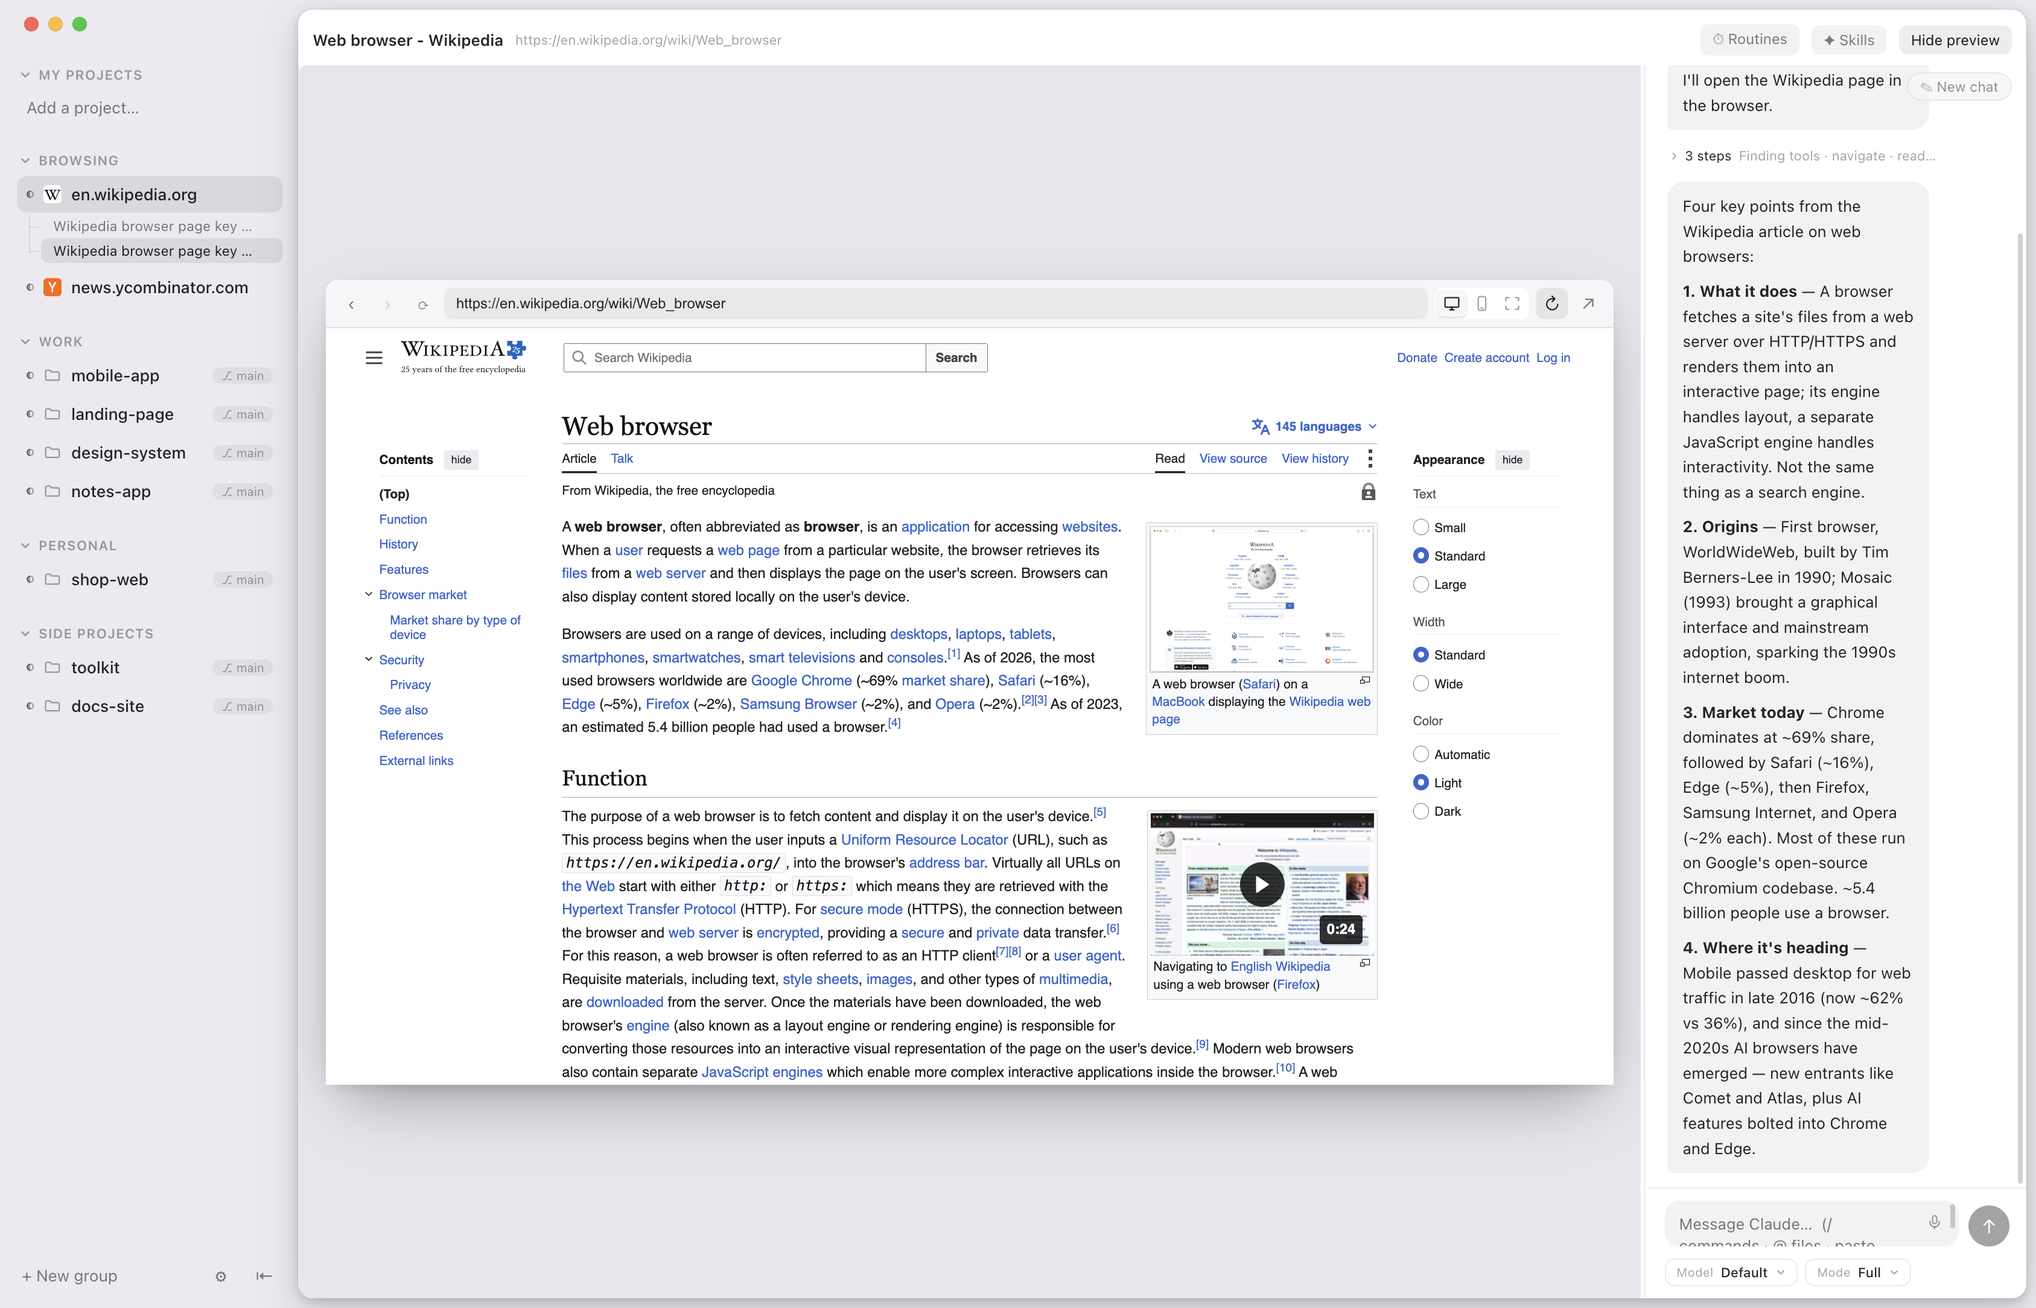
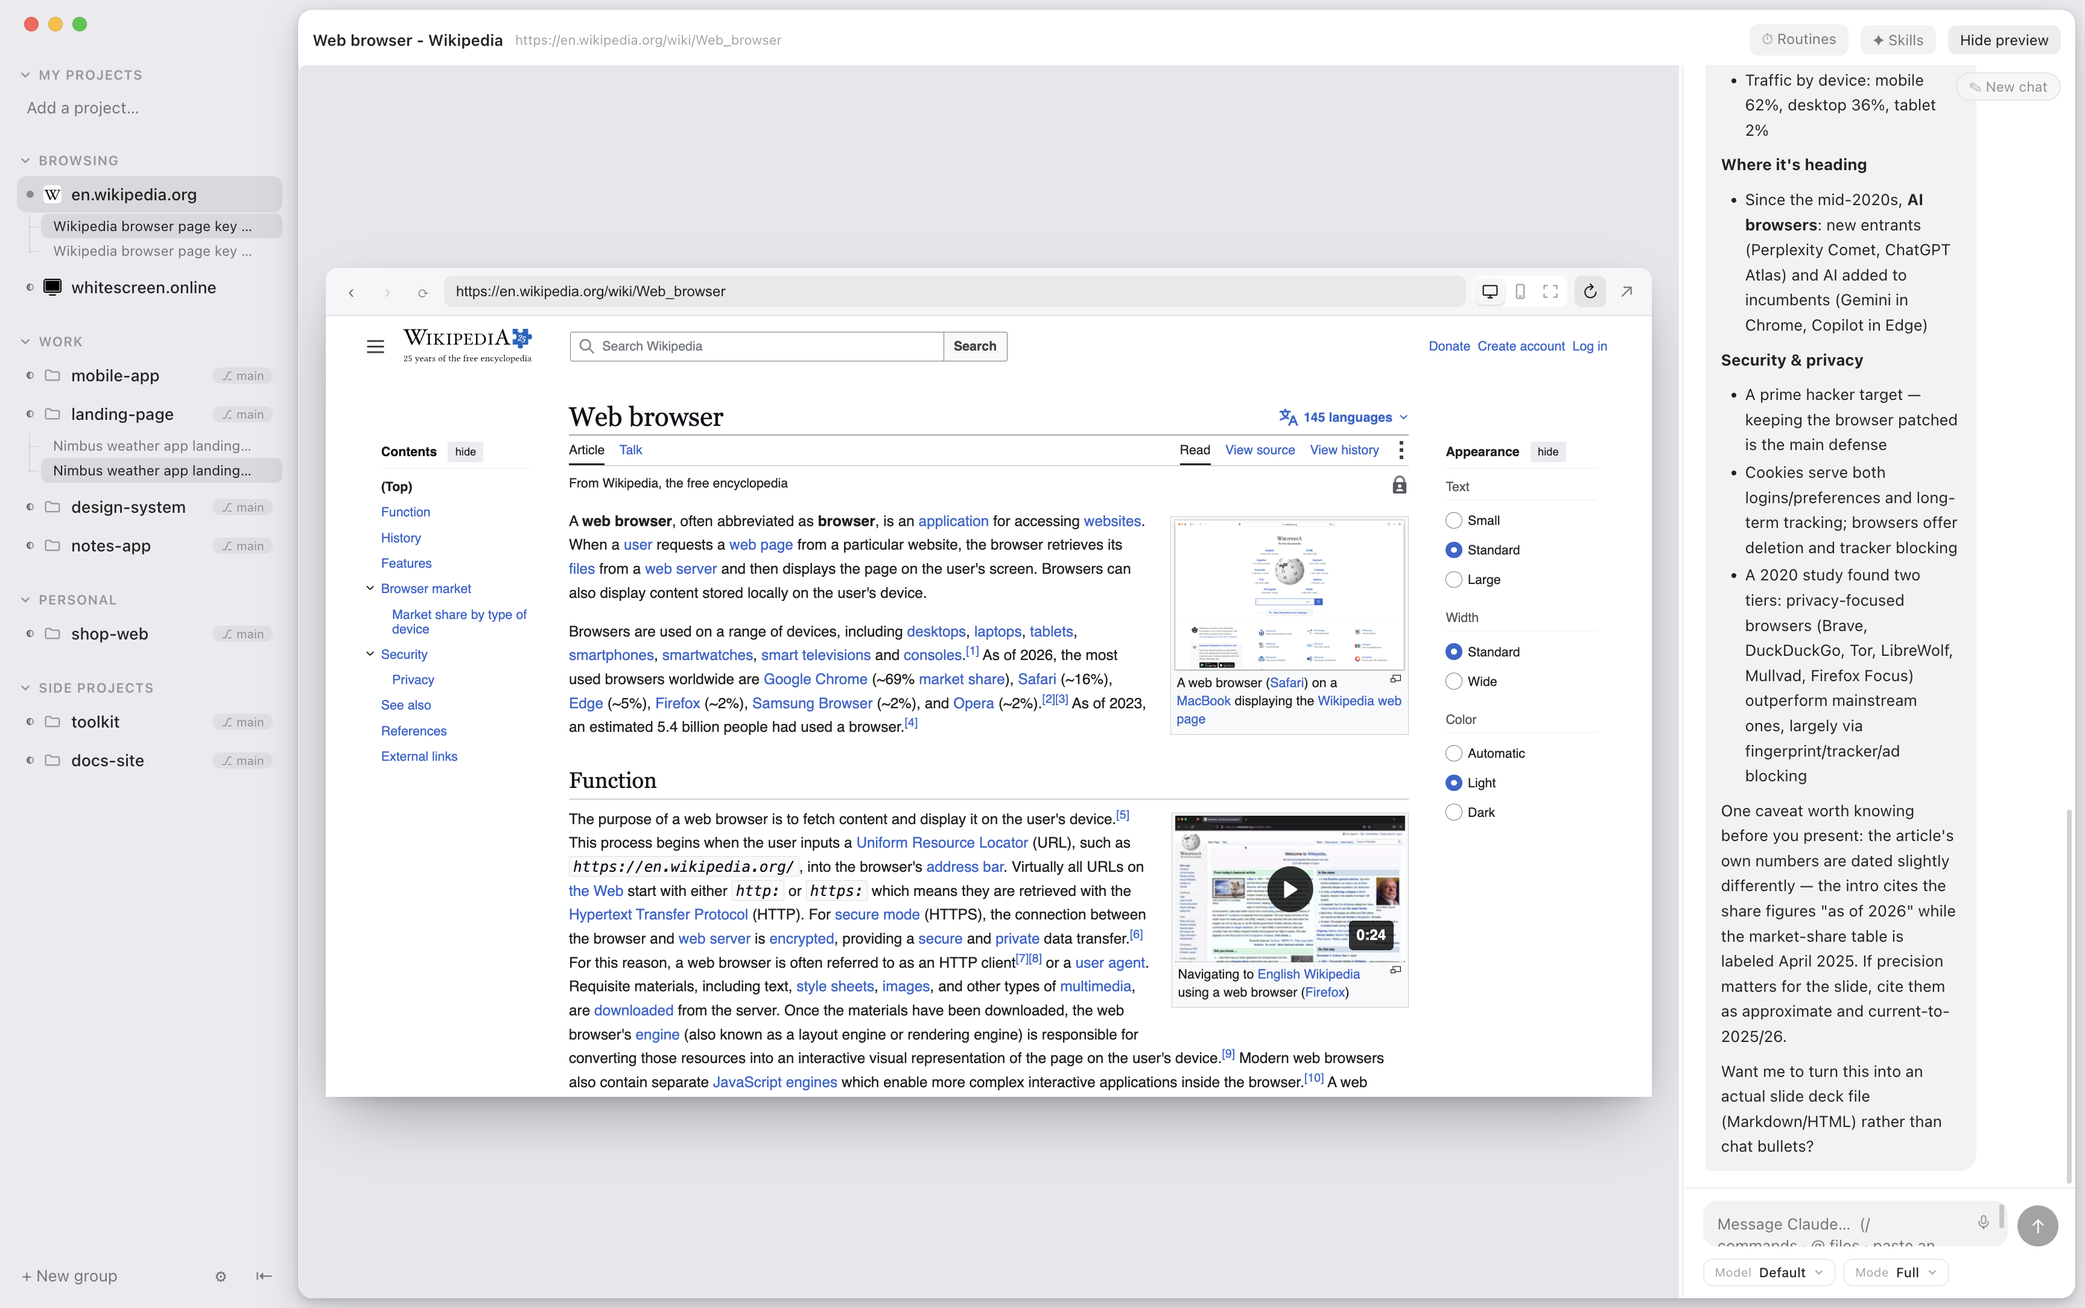
Instant Settings over a dimmed page; settle the pane corners; 1.0.6
Two bugs that looked like one, and a design question closed by the platform.

- Settings took 1-2s to appear, and the page behind it vanished instead of
  dimming. The delay was never the modal: opening Settings probes the Claude CLI
  version, and that ran `claude --version` through an interactive login shell
  with execSync — ON MAIN. Main sat blocked for the shell + the CLI's startup,
  every queued IPC stalled behind it, and since a WebContentsView composites
  above all HTML, the modal sat invisible under the browser pane until main came
  back. The probe is now async, cached for the session, and warmed at startup;
  loginShellExecAsync's doc comment warns that sync shell-outs on main stall
  every queued IPC, because this will bite again otherwise.

- The vanishing is structural — nothing dims a native view — so an overlay now
  freezes the pane instead: one IPC photographs the page and detaches the view
  in the same main-side handler (~25ms), and the still stands in and dims with
  everything else. Two prior versions of this shipped broken for reasons worth
  recording: capturing via toDataURL encoded a full-size PNG synchronously on
  main (the exact stall it was meant to avoid — now a half-size JPEG as bytes),
  and the renderer's CSP img-src didn't allow blob:, so the still rendered as a
  broken-image icon while looking perfectly healthy in the code.

- Pane corners: settled as a rounded-top sheet — omnibar corners round, page
[…]

diff --git a/app/src/renderer/src/components/BrowserPane.tsx b/app/src/renderer/src/components/BrowserPane.tsx
@@ -51,6 +51,14 @@ function FitIcon(): React.JSX.Element {
 // Height of the omnibar when it's docked onto the desktop floating card (so the
 // card reads as a self-contained browser window). Native view is pushed down by it.
 const CARD_OMNIBAR_H = 40
+// The native view's radius is uniform (no per-corner API), and NOTHING paints
+// over web contents — not HTML, and not sibling native Views (verified on screen
+// in both z-orders). A flush top therefore forces a square view, and a square
+// view fills the card to its bottom edge — any rounded lip under it reads as a
+// gap. So desktop mode is a rounded-top sheet: omnibar corners round, page
+// square, card bottom squared to match. Mobile keeps a real radius all round —
+// nothing is butted against a floating phone.
+const PANE_RADIUS = 10
 
 export function BrowserPane({
   paneId,
@@ -108,6 +116,15 @@ export function BrowserPane({
     autoFitRef.current = true // re-fit whenever a mode is (re)selected
     setViewport(v)
   }
+  // Where the native view currently sits inside the host, and a still of it held
+  // while an HTML overlay is up.
+  const [viewRect, setViewRect] = useState<{
+    left: number
+    top: number
+    width: number
+    height: number
+  } | null>(null)
+  const [frozen, setFrozen] = useState<string | null>(null)
   const [addressInput, setAddressInput] = useState('')
   const [suggestions, setSuggestions] = useState<Suggestion[]>([])
   const [suggestIndex, setSuggestIndex] = useState(-1)
@@ -143,6 +160,8 @@ export function BrowserPane({
     // draws over HTML, so without this the dropdown is covered and unclickable.
     // Clipping (vs hiding the whole pane) keeps the rest of the page visible.
     const emit = (b: { x: number; y: number; width: number; height: number }): void => {
+      // Host-relative copy for the freeze-frame still (see the overlay effect).
+      setViewRect({ left: b.x - x0, top: b.y - y0, width: b.width, height: b.height })
       if (suggestOpenRef.current && suggestRef.current) {
         const bottom = Math.round(suggestRef.current.getBoundingClientRect().bottom)
         if (bottom > b.y) {
@@ -158,6 +177,7 @@ export function BrowserPane({
       // layout fits the pane width (not a cramped 1:1 render). A manual zoom
       // (autoFit off) is respected instead.
       if (autoFitRef.current && W > 0) window.cove.browserSetZoom?.(paneId, W / 1280)
+      window.cove.browserSetRadius?.(paneId, 0)
       emit({ x: x0, y: y0, width: W, height: H })
       return
     }
@@ -178,6 +198,7 @@ export function BrowserPane({
       window.cove.browserSetZoom?.(paneId, scale)
       setSimFrame({ left, top, width: sw, height: sh })
       // The omnibar is docked onto the card's top strip, so the page starts below it.
+      window.cove.browserSetRadius?.(paneId, 0)
       emit({ x: x0 + left, y: y0 + top + CARD_OMNIBAR_H, width: sw, height: sh - CARD_OMNIBAR_H })
       return
     }
@@ -193,6 +214,8 @@ export function BrowserPane({
     const top = Math.round((H - dh) / 2)
     window.cove.browserSetZoom?.(paneId, scale)
     setSimFrame({ left, top, width: dw, height: dh })
+    // A phone is rounded on every corner, and has no omnibar butted against it.
+    window.cove.browserSetRadius?.(paneId, PANE_RADIUS)
     emit({ x: x0 + left, y: y0 + top, width: dw, height: dh })
   }, [paneId])
 
@@ -211,8 +234,44 @@ export function BrowserPane({
   // its top-clip is applied or removed.
   useEffect(() => {
     if (visible && !overlayOpen) syncBounds()
-    else window.cove.browserHide(paneId)
+    else if (!visible) window.cove.browserHide(paneId)
+    // The overlay case is handled below, so the page can be frozen before it goes.
   }, [visible, overlayOpen, suggestOpen, paneId, syncBounds])
+
+  // Overlay opening: one IPC — main photographs the page and detaches the view
+  // in the same handler, then the still stands in (~20 ms later). Detaching must
+  // never wait on a renderer round-trip: the native view composites above ALL
+  // HTML, so every frame it lingers is a frame the modal sits invisible under it.
+  useEffect(() => {
+    if (!visible) return
+    let cancelled = false
+    if (overlayOpen) {
+      window.cove
+        .browserFreeze?.(paneId)
+        .then((shot) => {
+          if (cancelled || !shot || !shot.length) return
+          setFrozen((prev) => {
+            if (prev) URL.revokeObjectURL(prev)
+            return URL.createObjectURL(new Blob([new Uint8Array(shot)], { type: 'image/jpeg' }))
+          })
+        })
+        .catch(() => window.cove.browserHide(paneId))
+    } else if (frozen) {
+      // Drop the still a frame after the live view is back, never before.
+      requestAnimationFrame(() => {
+        if (cancelled) return
+        setFrozen((prev) => {
+          if (prev) URL.revokeObjectURL(prev)
+          return null
+        })
+      })
+    }
+    return () => {
+      cancelled = true
+    }
+    // `frozen` is deliberately out of the deps: it's an output of this effect.
+    // eslint-disable-next-line react-hooks/exhaustive-deps
+  }, [overlayOpen, visible, paneId])
 
   // Re-apply on mode change. Leaving simulation restores 100% first (the sim left
   // a fit-to-pane zoom applied); then reposition/zoom for the newly selected mode.
@@ -519,7 +578,28 @@ export function BrowserPane({
               left: simFrame.left,
               top: simFrame.top,
               width: simFrame.width,
-              height: simFrame.height
+              height: simFrame.height,
+              // Desktop: the square page fills the card to its bottom edge, so the
+              // card squares off with it — rounded bottom corners would poke out
+              // from behind the page as two nicks.
+              borderRadius: viewport === 'desktop' ? '10px 10px 0 0' : undefined
+            }}
+          />
+        )}
+        {frozen && viewRect && (
+          // Stand-in for the native view while an overlay is up. Corners match
+          // what the compositor draws: square under the docked omnibar, rounded
+          // at the bottom; a simulated phone is rounded all round.
+          <img
+            className="browser-frozen"
+            src={frozen}
+            alt=""
+            style={{
+              left: viewRect.left,
+              top: viewRect.top,
+              width: viewRect.width,
+              height: viewRect.height,
+              borderRadius: viewport === 'mobile' ? '10px' : '0'
             }}
           />
         )}

diff --git a/app/src/main/browser.ts b/app/src/main/browser.ts
@@ -165,10 +165,13 @@ export function createBrowserPane(window: BrowserWindow, id: string, partition: 
     }
   })
   view.setBackgroundColor('#ffffff')
-  // Round the native view to match the content card (a native view isn't clipped
-  // by the card's CSS border-radius, so its square corner would otherwise bleed
-  // past the rounded corner). Also gives the Arc-style rounded-page look.
-  view.setBorderRadius?.(10)
+  // A native view isn't clipped by the card's CSS radius, so its corners are its
+  // own problem. Electron's radius is uniform — all four or none — which is why
+  // the renderer picks it per viewport mode: a phone stays rounded, while the
+  // desktop card sits flush under the docked omnibar (square) and gets its
+  // rounded bottom from the card showing beneath it. Default square; the
+  // renderer sets the real value on the first bounds sync.
+  view.setBorderRadius?.(0)
 
   const pane: BrowserPane = { id, view, window, visible: false }
   panes.set(id, pane)
@@ -314,6 +317,38 @@ export function registerBrowserIpc(): void {
     }
     pane.view.setBounds(bounds)
   })
+
+  /**
+   * Freeze the pane for an HTML overlay: photograph the page, then detach the
+   * native view — both here in main, one IPC. The view composites above ALL
+   * renderer HTML, so every frame it stays attached is a frame the modal is
+   * invisible; detaching must not wait for a renderer round-trip. The still goes
+   * back to the renderer to stand in for the page (dimmed like everything else).
+   */
+  ipcMain.handle('browser:freeze', async (_e, id: string) => {
+    const pane = panes.get(id)
+    if (!pane || pane.window.isDestroyed() || !pane.visible) return null
+    try {
+      const t0 = Date.now()
+      const img = await pane.view.webContents.capturePage()
+      if (img.isEmpty()) return null
+      // Half-size JPEG, not a full-resolution PNG data URL. toDataURL() encodes
+      // PNG synchronously on the main thread and then hands back multiple MB of
+      // base64 — enough to stall the UI for a second or more on a big pane. This
+      // is a dimmed backdrop still, so quality barely matters; a Buffer also
+      // crosses IPC without the base64 tax.
+      const { width } = img.getSize()
+      const small = width > 2 ? img.resize({ width: Math.round(width / 2) }) : img
+      const buf = small.toJPEG(70)
+      pane.window.contentView.removeChildView(pane.view)
+      pane.visible = false
+      console.log(`[freeze] total=${Date.now() - t0}ms bytes=${buf.length}`)
+      return buf
+    } catch {
+      return null
+    }
+  })
+
   ipcMain.on('browser:hide', (_e, id: string) => {
     const pane = panes.get(id)
     if (pane) hidePane(pane)
@@ -339,6 +374,12 @@ export function registerBrowserIpc(): void {
   // Absolute zoom for device simulation (the renderer computes a fit-to-pane
   // factor). Deliberately does NOT broadcast a zoom event — the manual zoom label
   // must keep reflecting the user's own ⌘+/- level, not the simulator's.
+  ipcMain.on('browser:set-radius', (_e, id: string, radius: number) => {
+    const pane = panes.get(id)
+    if (!pane) return
+    pane.view.setBorderRadius?.(Math.max(0, Math.round(radius)))
+  })
+
   ipcMain.on('browser:set-zoom-factor', (_e, id: string, factor: number) => {
     const pane = panes.get(id)
     const wc = pane?.view.webContents

diff --git a/app/src/main/environment.ts b/app/src/main/environment.ts
@@ -1,5 +1,5 @@
 import { ipcMain } from 'electron'
-import { loginShellExec } from './claude-cli'
+import { loginShellExec, loginShellExecAsync } from './claude-cli'
 
 /**
  * Detects whether the user's machine is ready: is the `claude` binary installed,
@@ -12,13 +12,38 @@ export interface EnvStatus {
   loggedIn: boolean
 }
 
+// The CLI's version can't change mid-run, so one probe serves the whole session.
+// Uncached, every Settings open paid for an interactive zsh + the claude CLI's
+// startup — synchronously, on main.
+let versionCache: { claudeInstalled: boolean; claudeVersion: string | null } | null = null
+
+/** Async + cached: never blocks main. A miss (not installed) is not cached, so onboarding's Re-check still works. */
+export async function detectVersionAsync(): Promise<{
+  claudeInstalled: boolean
+  claudeVersion: string | null
+}> {
+  if (versionCache) return versionCache
+  try {
+    const version = await loginShellExecAsync('claude --version')
+    if (version) {
+      versionCache = { claudeInstalled: true, claudeVersion: version.split(/\s+/)[0] || version }
+      return versionCache
+    }
+  } catch {
+    // not installed
+  }
+  return { claudeInstalled: false, claudeVersion: null }
+}
+
 /** Cheap check: is claude installed, and what version? No inference call. */
 export function detectVersion(): { claudeInstalled: boolean; claudeVersion: string | null } {
+  if (versionCache) return versionCache
   try {
     const version = loginShellExec('claude --version')
     if (version) {
       // e.g. "2.1.220 (Claude Code)" → "2.1.220"
-      return { claudeInstalled: true, claudeVersion: version.split(/\s+/)[0] || version }
+      versionCache = { claudeInstalled: true, claudeVersion: version.split(/\s+/)[0] || version }
+      return versionCache
     }
   } catch {
     // not installed
@@ -46,6 +71,9 @@ export function detectEnvironment(): EnvStatus {
 
 export function registerEnvironmentIpc(): void {
   ipcMain.handle('env:detect', () => detectEnvironment())
-  // Version-only: cheap, no inference call. Used by Settings.
-  ipcMain.handle('env:version', () => detectVersion())
+  // Async + cached — the sync variant blocked main for the shell + CLI startup,
+  // which is exactly the beat where Settings is opening.
+  ipcMain.handle('env:version', () => detectVersionAsync())
+  // Warm the cache off the startup path so even the first Settings open is instant.
+  void detectVersionAsync()
 }

diff --git a/app/src/preload/index.ts b/app/src/preload/index.ts
@@ -81,6 +81,10 @@ export interface CoveApi {
   browserDestroy: (id: string) => void
   browserZoom: (id: string, action: 'in' | 'out' | 'reset') => Promise<number>
   browserSetZoom: (id: string, factor: number) => void
+  /** Corner radius of the native view; uniform, so it's chosen per viewport mode. */
+  browserSetRadius: (id: string, radius: number) => void
+  /** Photograph the pane and detach it in one step; returns the JPEG bytes. */
+  browserFreeze: (id: string) => Promise<Uint8Array | null>
   checkPort: (port: number) => Promise<boolean>
   onBrowserZoom: (id: string, cb: (factor: number) => void) => () => void
   onBrowserState: (id: string, cb: (s: BrowserState) => void) => () => void
@@ -216,6 +220,8 @@ const cove: CoveApi = {
   browserOpenExternal: (id) => ipcRenderer.send('browser:open-external', id),
   browserZoom: (id, action) => ipcRenderer.invoke('browser:zoom', id, action),
   browserSetZoom: (id, factor) => ipcRenderer.send('browser:set-zoom-factor', id, factor),
+  browserSetRadius: (id, radius) => ipcRenderer.send('browser:set-radius', id, radius),
+  browserFreeze: (id) => ipcRenderer.invoke('browser:freeze', id),
   checkPort: (port) => ipcRenderer.invoke('net:checkPort', port),
   onBrowserZoom: (id, cb) => subscribe(`browser:zoom:${id}`, (f) => cb(f as number)),
   browserDestroy: (id) => ipcRenderer.send('browser:destroy', id),

diff --git a/app/src/main/claude-cli.ts b/app/src/main/claude-cli.ts
@@ -1,4 +1,4 @@
-import { execSync } from 'child_process'
+import { execSync, exec } from 'child_process'
 
 /**
  * Resolves the `claude` binary via a login shell (so the user's real PATH —
@@ -18,6 +18,23 @@ export function loginShellExec(cmd: string, timeoutMs = 8000): string {
     encoding: 'utf8',
     timeout: timeoutMs
   }).trim()
+}
+
+/**
+ * Async twin of loginShellExec. The sync version BLOCKS THE MAIN PROCESS for the
+ * whole login-shell + command run (seconds when the command is a Node CLI) —
+ * while it runs, every queued IPC stalls and the window can't hide native views,
+ * so a modal opened at the wrong moment sits invisible under the browser pane.
+ * Anything called from an ipcMain handler must use this instead.
+ */
+export function loginShellExecAsync(cmd: string, timeoutMs = 8000): Promise<string> {
+  return new Promise((resolve, reject) => {
+    exec(
+      `${loginShell()} -lic ${JSON.stringify(cmd)} 2>/dev/null`,
+      { encoding: 'utf8', timeout: timeoutMs },
+      (err, stdout) => (err ? reject(err) : resolve(stdout.trim()))
+    )
+  })
 }
 
 /** Absolute path to `claude`, resolved once via a login shell. Falls back to bare `claude`. */

diff --git a/app/src/renderer/src/assets/main.css b/app/src/renderer/src/assets/main.css
@@ -3801,6 +3801,16 @@ button {
 /* Sits behind the native device view so the simulated screen reads as a separate,
    floating surface — the native view draws on top, so only this card's shadow and
    rounded edge show around it. Non-interactive; purely the "floating" feel. */
+/* Freeze-frame of the page, shown while an HTML overlay is open. A native view
+   is always composited above the DOM, so it can't be dimmed or covered — the
+   live view is swapped for this still, which dims with everything else. */
+.browser-frozen {
+  position: absolute;
+  object-fit: fill;
+  pointer-events: none;
+  z-index: 1;
+}
+
 .browser-sim-frame {
   position: absolute;
   border-radius: 10px;

diff --git a/app/src/renderer/index.html b/app/src/renderer/index.html
@@ -12,7 +12,7 @@
     -->
     <meta
       http-equiv="Content-Security-Policy"
-      content="default-src 'self'; script-src 'self' 'wasm-unsafe-eval' blob:; style-src 'self' 'unsafe-inline'; img-src 'self' data:; connect-src 'self' blob: data: https://huggingface.co https://*.huggingface.co https://*.hf.co; worker-src 'self' blob:; media-src 'self' blob:"
+      content="default-src 'self'; script-src 'self' 'wasm-unsafe-eval' blob:; style-src 'self' 'unsafe-inline'; img-src 'self' data: blob:; connect-src 'self' blob: data: https://huggingface.co https://*.huggingface.co https://*.hf.co; worker-src 'self' blob:; media-src 'self' blob:"
     />
   </head>
 
